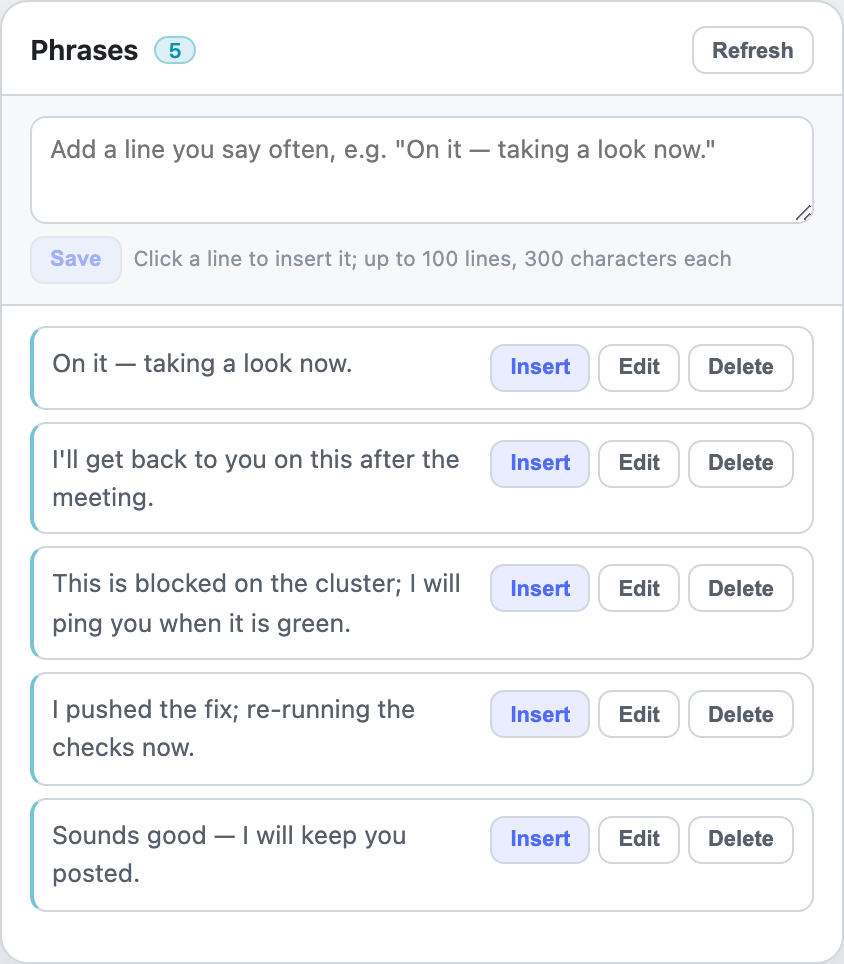
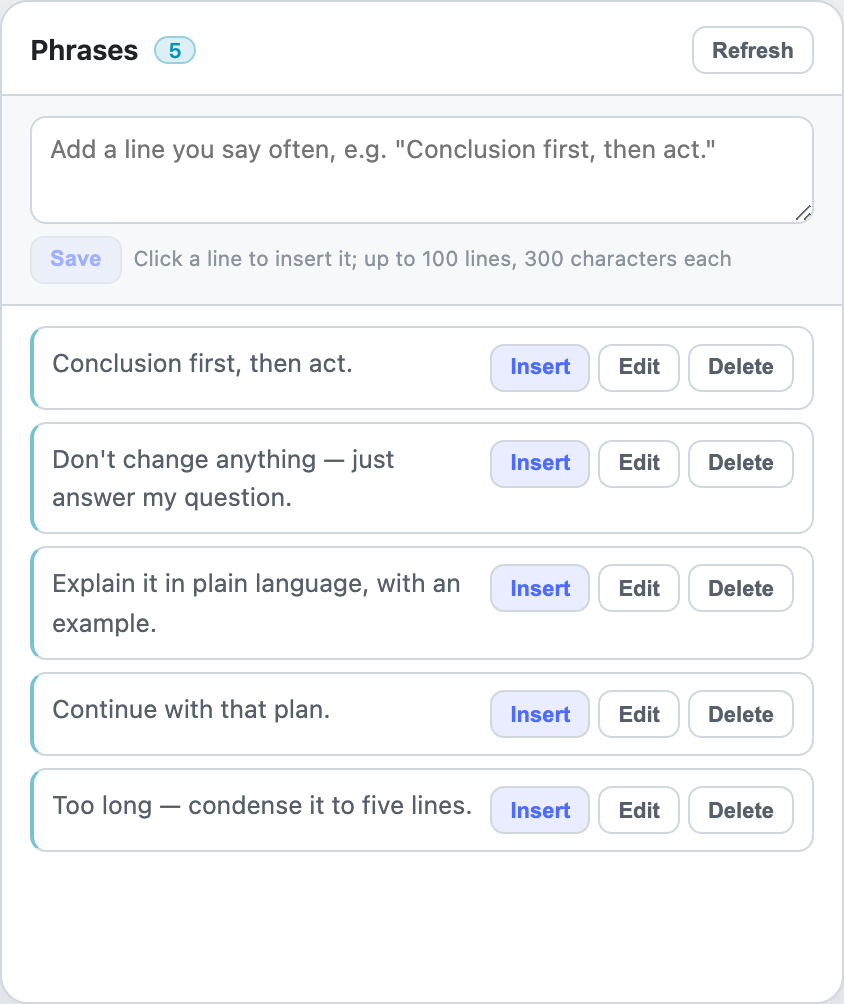
docs: use agent-conversation examples in the panel images
The previous sample lines read like office chat. The panel now shows what
people actually type to an agent — "Conclusion first, then act.", "Don't
change anything — just answer my question.", "Explain it in plain language,
with an example." — and the add-field placeholder uses the same kind of line
in both languages.

diff --git a/client.js b/client.js
@@ -49,7 +49,7 @@ window.__ModuleLoader__.load({
         chip: "口头禅",
         title: "口头禅",
         refresh: "刷新",
-        addPlaceholder: "新增一句常说的话，比如：收到，我马上看。",
+        addPlaceholder: "新增一句常说的话，比如：先给结论，再动手。",
         addAria: "新增口头禅",
         save: "保存",
         cancel: "取消",
@@ -83,7 +83,7 @@ window.__ModuleLoader__.load({
         chip: "Phrases",
         title: "Phrases",
         refresh: "Refresh",
-        addPlaceholder: 'Add a line you say often, e.g. "On it — taking a look now."',
+        addPlaceholder: 'Add a line you say often, e.g. "Conclusion first, then act."',
         addAria: "New phrase",
         save: "Save",
         cancel: "Cancel",
